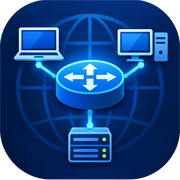
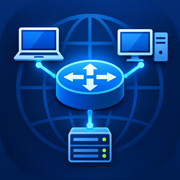
v1 fix

Changed region(s): [[0.0, 0.7222, 1.0, 1.0], [0.0, 0.0, 0.25, 0.25], [0.7778, 0.0, 1.0, 0.25]]

diff --git a/src/ui/pwa/install.ts b/src/ui/pwa/install.ts
@@ -1,0 +1,94 @@
+import { useSyncExternalStore } from 'react'
+
+/**
+ * PWA installation state.
+ * - Chromium (Android, desktop) fires `beforeinstallprompt`: we keep the event
+ *   to trigger the native install dialog from our own button.
+ * - iOS has no such API: the user must use Share → Add to Home Screen.
+ * This module is loaded at startup so the event is never missed.
+ */
+
+interface BeforeInstallPromptEvent extends Event {
+  prompt(): Promise<void>
+  userChoice: Promise<{ outcome: 'accepted' | 'dismissed' }>
+}
+
+/** How the app can be installed right now. */
+export type InstallMode = 'native' | 'ios' | 'none'
+
+const DISMISS_KEY = 'install-banner-dismissed'
+
+let deferred: BeforeInstallPromptEvent | null = null
+let installed = isStandalone()
+let dismissed = readDismissed()
+const listeners = new Set<() => void>()
+const emit = () => listeners.forEach((l) => l())
+
+function isStandalone(): boolean {
+  const iosStandalone = (navigator as Navigator & { standalone?: boolean }).standalone === true
+  return iosStandalone || window.matchMedia('(display-mode: standalone)').matches
+}
+
+function isIos(): boolean {
+  // iPadOS reports itself as a Mac; touch support tells them apart.
+  return /iphone|ipad|ipod/i.test(navigator.userAgent) || (/macintosh/i.test(navigator.userAgent) && navigator.maxTouchPoints > 1)
+}
+
+function readDismissed(): boolean {
+  try {
+    return localStorage.getItem(DISMISS_KEY) === '1'
+  } catch {
+    return false
+  }
+}
+
+window.addEventListener('beforeinstallprompt', (e) => {
+  // Keep Chrome's own mini-infobar away; our banner offers the install instead.
+  e.preventDefault()
+  deferred = e as BeforeInstallPromptEvent
+  emit()
+})
+
+window.addEventListener('appinstalled', () => {
+  deferred = null
+  installed = true
+  emit()
+})
+
+function mode(): InstallMode {
+  if (installed || dismissed) return 'none'
+  if (deferred) return 'native'
+  return isIos() ? 'ios' : 'none'
+}
+
+function subscribe(listener: () => void) {
+  listeners.add(listener)
+  return () => listeners.delete(listener)
+}
+
+export function useInstallMode(): InstallMode {
+  return useSyncExternalStore(subscribe, mode)
+}
+
+/** Opens the browser's install dialog (native mode only). */
+export async function promptInstall(): Promise<void> {
+  const event = deferred
+  if (!event) return
+  // The event can only be used once.
+  deferred = null
+  await event.prompt()
+  const { outcome } = await event.userChoice
+  if (outcome === 'accepted') installed = true
+  emit()
+}
+
+/** Hides the banner for good on this device. */
+export function dismissInstall() {
+  dismissed = true
+  try {
+    localStorage.setItem(DISMISS_KEY, '1')
+  } catch {
+    // Private mode: dismissed for this session only.
+  }
+  emit()
+}

diff --git a/src/ui/components/InstallBanner.tsx b/src/ui/components/InstallBanner.tsx
@@ -1,0 +1,36 @@
+import { dismissInstall, promptInstall, useInstallMode } from '../pwa/install'
+
+/** Offers to install the app; hidden once installed or dismissed. */
+export function InstallBanner() {
+  const mode = useInstallMode()
+  if (mode === 'none') return null
+
+  return (
+    <div className="mb-4 flex items-center gap-3 rounded-xl border border-sky-800 bg-sky-950 px-4 py-3 text-sm text-sky-100">
+      <img src="/icon-192.png" alt="" className="h-10 w-10 shrink-0 rounded-lg" />
+      <div className="min-w-0 flex-1">
+        <div className="font-medium">Install Mini Packet Tracer</div>
+        {mode === 'native' ? (
+          <div className="text-sky-300">Works offline, opens full screen.</div>
+        ) : (
+          <div className="text-sky-300">
+            Tap <span className="font-medium text-sky-100">Share</span>, then{' '}
+            <span className="font-medium text-sky-100">Add to Home Screen</span>.
+          </div>
+        )}
+      </div>
+      {mode === 'native' && (
+        <button
+          type="button"
+          onClick={() => void promptInstall()}
+          className="rounded-lg bg-sky-600 px-3 py-1.5 font-medium text-white hover:bg-sky-500"
+        >
+          Install
+        </button>
+      )}
+      <button type="button" onClick={dismissInstall} className="px-1 text-sky-300 hover:text-white" aria-label="Dismiss">
+        ✕
+      </button>
+    </div>
+  )
+}

diff --git a/src/ui/screens/ProjectList.tsx b/src/ui/screens/ProjectList.tsx
@@ -2,6 +2,7 @@ import { useCallback, useEffect, useRef, useState } from 'react'
 import { ImportError } from '../../engine'
 import { BottomSheet } from '../components/BottomSheet'
 import { ConfirmSheet } from '../components/ConfirmSheet'
+import { InstallBanner } from '../components/InstallBanner'
 import { TextPrompt } from '../components/TextPrompt'
 import {
   createNewProject,
@@ -104,6 +105,8 @@ export function ProjectList() {
             </button>
           </div>
         </header>
+
+        <InstallBanner />
 
         {notice && (
           <p className={`mb-4 rounded-lg px-3 py-2 text-sm ${notice.error ? 'bg-red-950 text-red-300' : 'bg-emerald-950 text-emerald-300'}`}>

diff --git a/vite.config.ts b/vite.config.ts
@@ -23,6 +23,9 @@ export default defineConfig({
         icons: [
           { src: 'icon-192.png', sizes: '192x192', type: 'image/png', purpose: 'any' },
           { src: 'icon-512.png', sizes: '512x512', type: 'image/png', purpose: 'any' },
+          // Full-bleed versions: without them Android puts the icon on a white plate.
+          { src: 'icon-maskable-192.png', sizes: '192x192', type: 'image/png', purpose: 'maskable' },
+          { src: 'icon-maskable-512.png', sizes: '512x512', type: 'image/png', purpose: 'maskable' },
         ],
       },
       workbox: {
